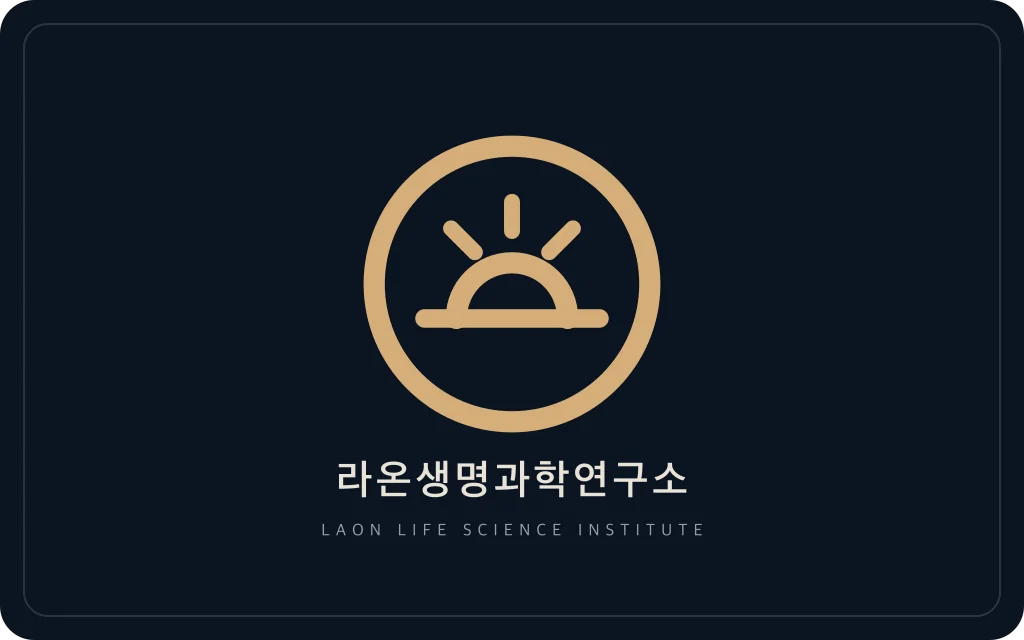
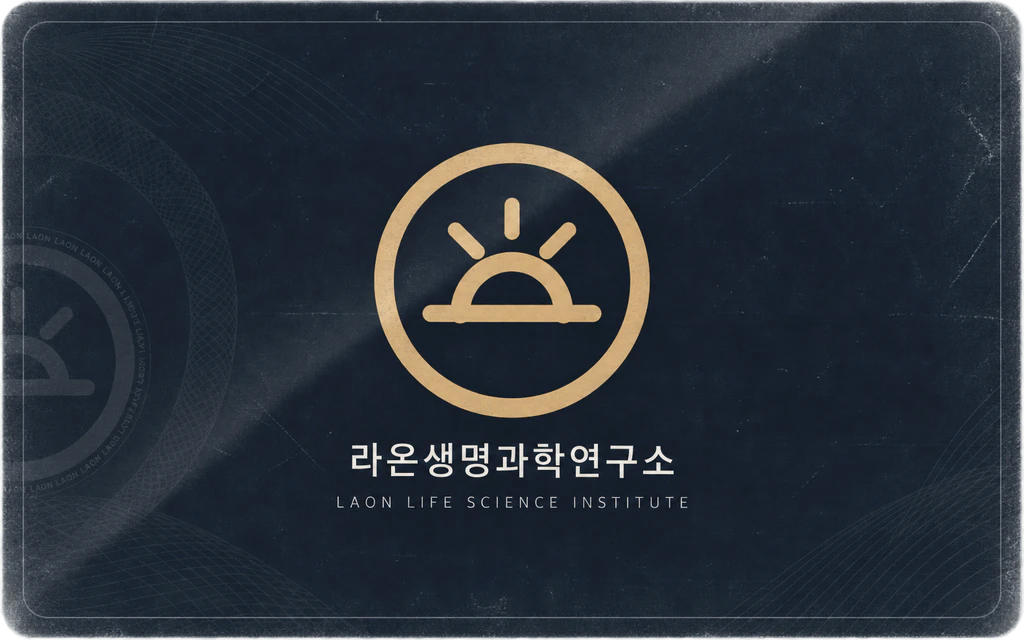
asset(id-card): 출입증 앞뒤 이미지를 교체하고 캐시 버전을 올린다

diff --git a/src/lib/assets.ts b/src/lib/assets.ts
@@ -106,8 +106,8 @@ export const ASSETS = {
     cutsceneSurvivor9: "/assets/images/cutscene-survivor-9.webp?v=2",
     cutsceneSurvivor10: "/assets/images/cutscene-survivor-10.webp?v=3",
     /** '뒤집으면 보인다' 조사 에셋. */
-    mgIdCardFront: "/assets/images/mg-id-card-front.webp",
-    mgIdCardBack: "/assets/images/mg-id-card-back.webp",
+    mgIdCardFront: "/assets/images/mg-id-card-front.webp?v=3",
+    mgIdCardBack: "/assets/images/mg-id-card-back.webp?v=3",
     mgAmpouleLabel: "/assets/images/mg-ampoule-label.webp",
     mgShelfBookInside: "/assets/images/mg-shelf-book-inside.webp",
     mgPapersPaper: "/assets/images/mg-papers-paper.webp",
